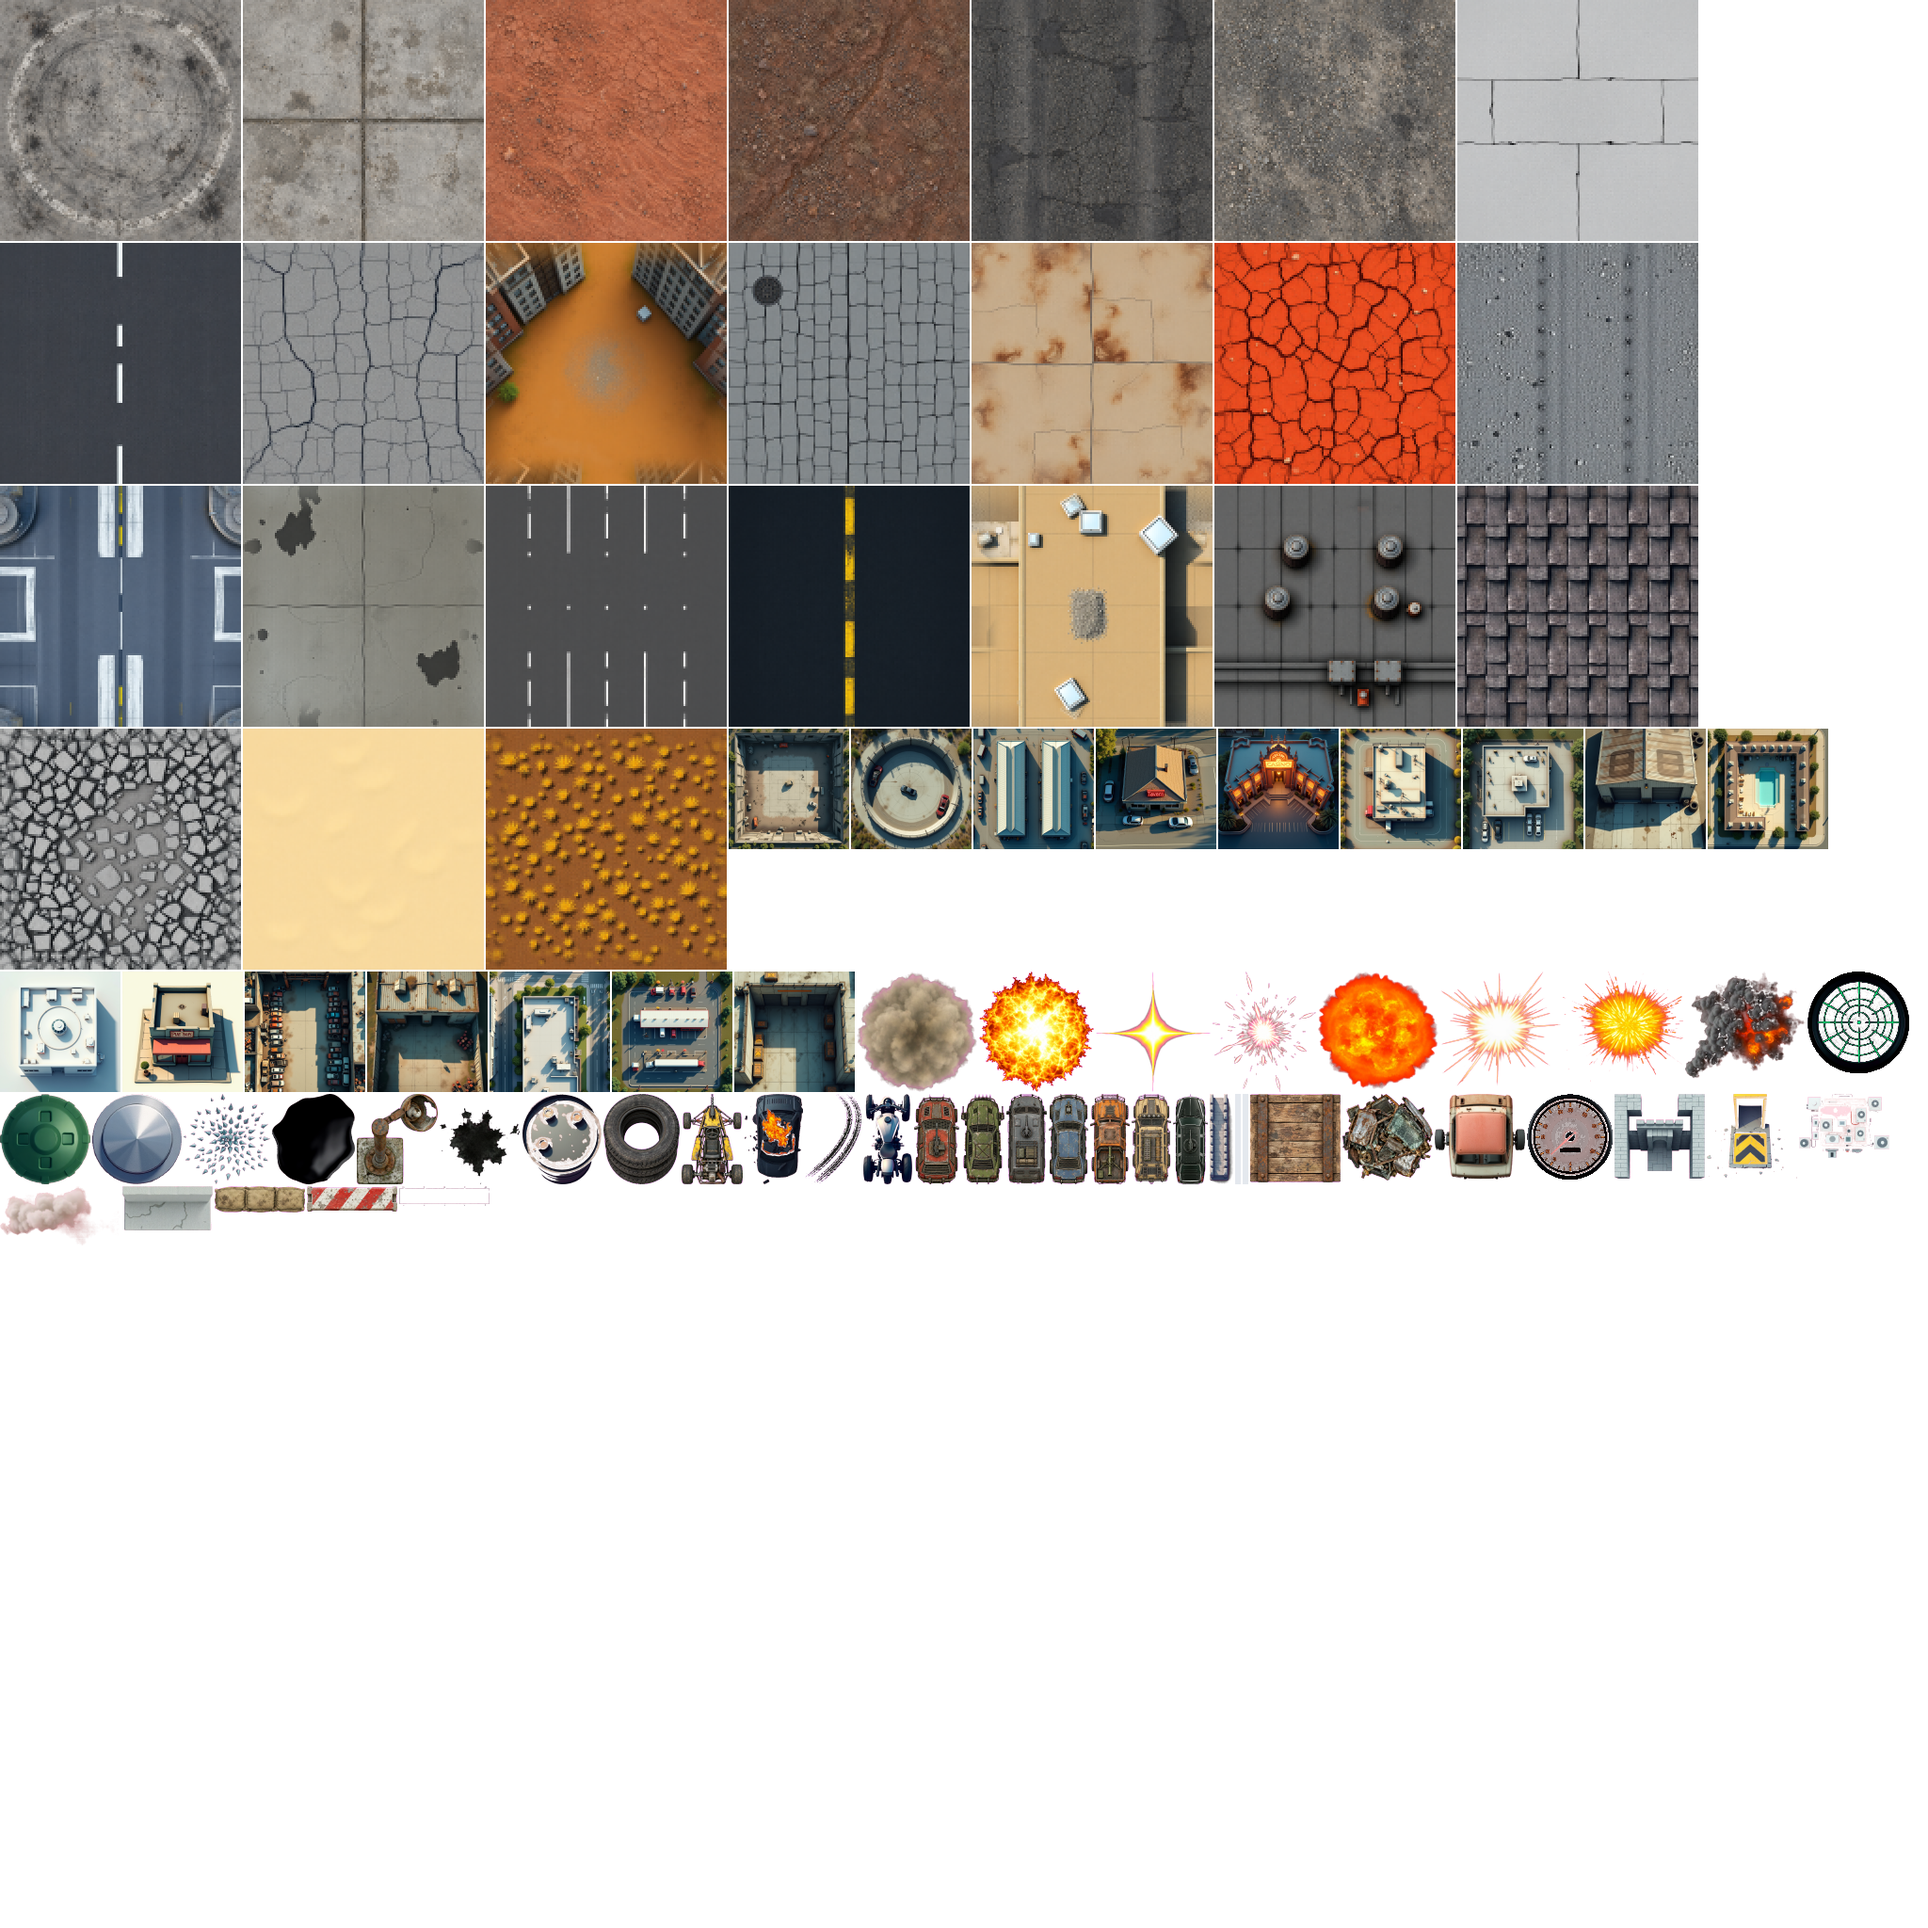
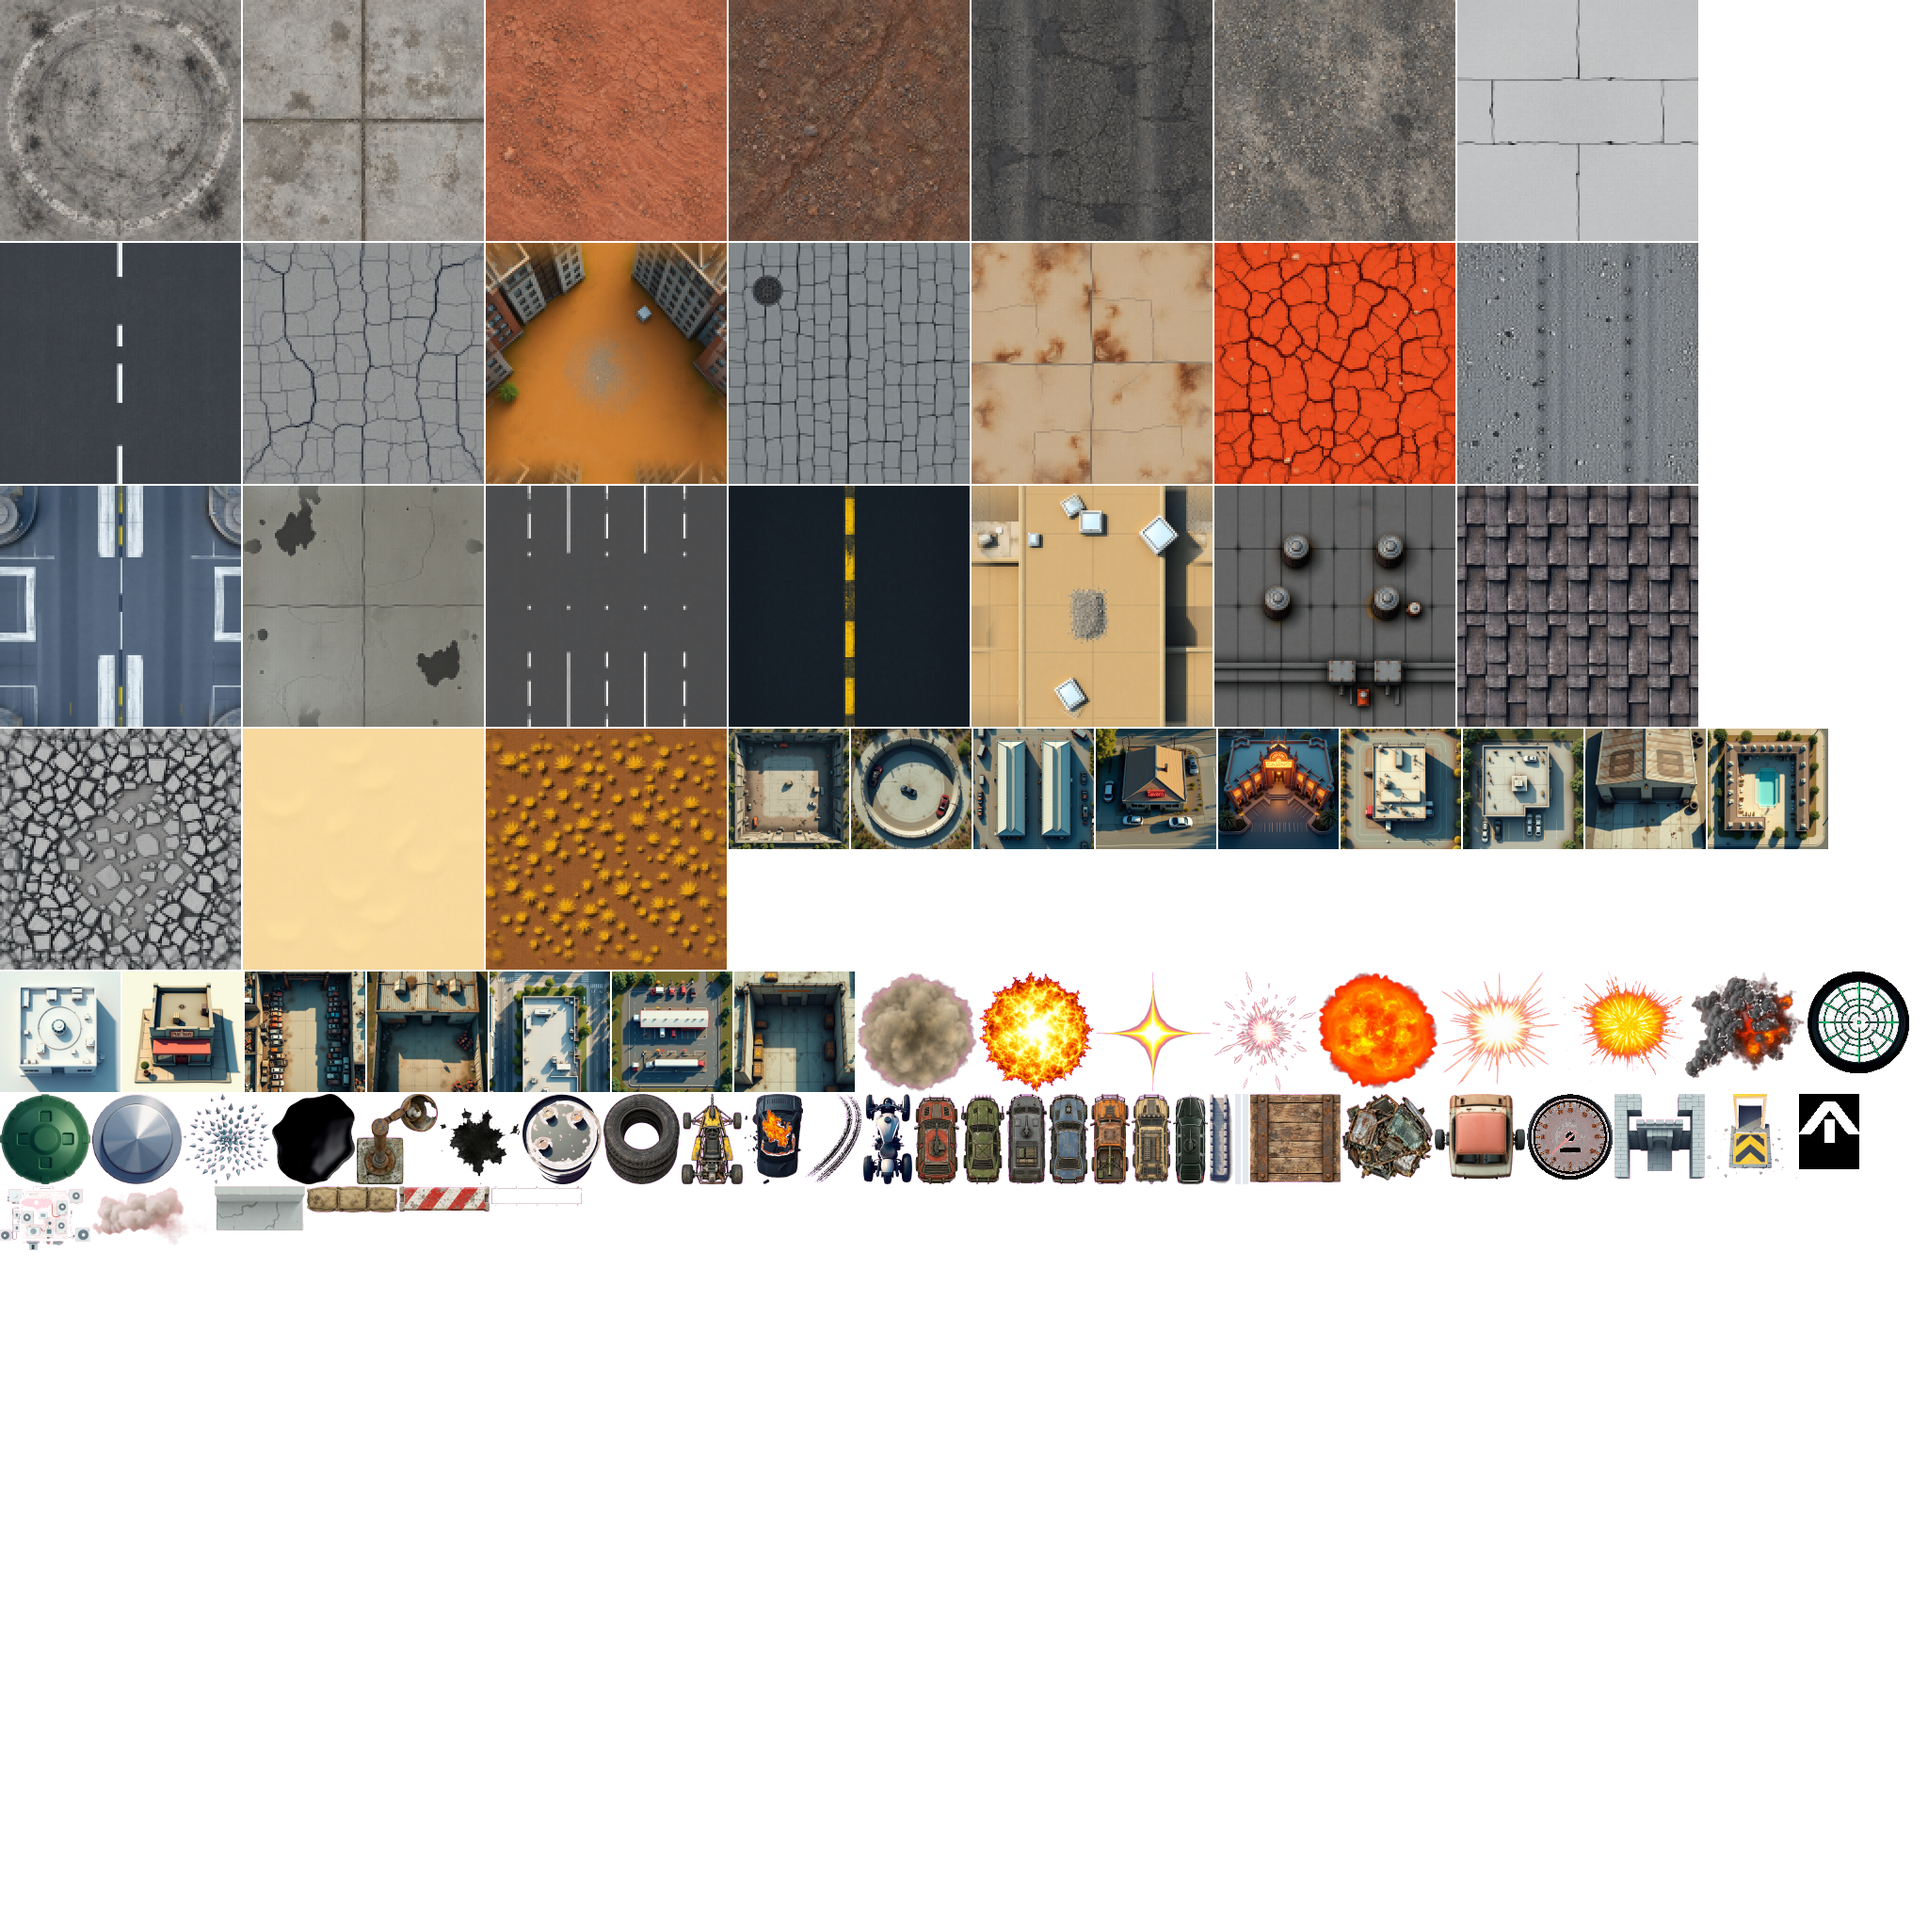
feat(city): a beacon over the gate, so the exit is findable 📍
Iteration 8, executing the waypoint carried from iteration 7. No new reviewer
this round; the carried finding was the work.

THE CITY HAD NO EXIT MARKER
- A review found the city has "no visual markers ... to indicate route to
  Albany; only a vague circle", and that "navigation is unclear". Accurate: the
  gate is drawn, but at the same size, on the same layer, in the same ring as
  the fifteen facilities, so nothing distinguishes "this is the way out" from
  "this is a bar you can visit". The city screen's whole job is choosing a
  building and the exit is the one you MUST find.
- A teal chevron now floats above the gate, on its own emission position so it
  paints over the infill within the buildings layer.

TWO BUGS, BOTH INVISIBLE UNTIL THE FRAME WAS INSPECTED
- It was first given its own layer ("LAYER_WAYPOINT = 3", so it could never be
  painted over). The city renderer packs exactly THREE layer buckets into three
  instance buffers, so a layer-3 instance was packed into nothing and never
  drawn — no error, because the layer number is just an integer and there is no
  buffer to overrun. It now rides on LAYER_BUILDING, where emission order gives
  the same "paints last" guarantee without inventing a bucket that does not
  exist.
- Then it rendered as a solid teal BLOCK. The PNG writer set RGB=255,255,255 on
  every pixel INCLUDING the fully transparent ones, so the atlas keyer — which
  samples the CORNER as the background colour and reads RGB regardless of
[…]

Changed region(s): [[0.0, 0.5938, 0.25, 0.6562], [0.9062, 0.5625, 0.9688, 0.625]]

diff --git a/src/ui/city-view.ts b/src/ui/city-view.ts
@@ -631,6 +631,63 @@ function buildingInstances(layout: CityLayout, doorway: Doorway, atlasIndex: Atl
   ];
 }
 
+/**
+ * The city exit beacon, floating above the gate.
+ *
+ * ## Why this exists
+ *
+ * A vision review found the city has "no visual markers ... to indicate route to
+ * Albany; only a vague circle", and that "navigation is unclear, making it
+ * difficult for players to understand their objective". That is accurate: the
+ * gate is drawn, but it is drawn at exactly the same size, on the same layer,
+ * in the same ring as the fifteen facilities, so nothing distinguishes "this
+ * one is the way out" from "this one is a bar you can visit".
+ *
+ * The city screen's whole job is choosing a building, and the exit is the one
+ * building a player MUST find, so it is the one that gets a marker.
+ *
+ * Drawn on its OWN layer above the buildings (not on LAYER_BUILDING) so it is
+ * never painted over by an infill block, and so the painter's-algorithm order
+ * is explicit rather than dependent on emission order.
+ *
+ * The frame itself is neutral white: the atlas chroma keyer removes a
+ * warm-tinted transparent decal entirely, so the accent colour is a tint here
+ * rather than baked into the art.
+ */
+const WAYPOINT_FRAME = 'decal-waypoint';
+const WAYPOINT_TINT = { r: 0.35, g: 0.88, b: 0.82, a: 0.95 } as const;
+/** Metres the beacon floats above the gate's footprint. */
+const WAYPOINT_LIFT_M = 2.6;
+/**
+ * The beacon rides on LAYER_BUILDING, not on a layer of its own.
+ *
+ * It was first given `LAYER_WAYPOINT = 3` "so it is never painted over by an
+ * infill block" — and was therefore silently invisible. The city renderer packs
+ * exactly three layer buckets into three separate instance buffers (ground,
+ * buildings, actors) and draws those three bind groups; a layer 3 instance is
+ * packed into nothing and never drawn, with no error, because the layer number
+ * is just an integer and there is no buffer to overrun.
+ *
+ * Within a bucket the painter's algorithm preserves emission order, and the
+ * beacon is emitted after every facility and filler, so it does still paint
+ * over them. That is the ordering guarantee actually wanted, obtained without
+ * inventing a bucket the renderer does not have.
+ */
+const LAYER_WAYPOINT = LAYER_BUILDING;
+
+function waypointInstance(gate: Gate, atlasIndex: AtlasIndex): SpriteInstanceInput {
+  const frame = atlasIndex.frame(WAYPOINT_FRAME);
+  return {
+    atlasId: String(frame.atlasIndex),
+    position: { x: gate.position.x, y: gate.position.y + WAYPOINT_LIFT_M },
+    rotationRad: 0,
+    sizeM: { x: 3.0, y: 3.8 },
+    uvRect: frame.uv,
+    tint: WAYPOINT_TINT,
+    layer: LAYER_WAYPOINT,
+  };
+}
+
 function gateInstances(layout: CityLayout, gate: Gate, atlasIndex: AtlasIndex): SpriteInstanceInput[] {
   const frame = atlasIndex.frame(GATE_FRAME);
   const sizeM: Vec2 = { x: layout.tileSizeM, y: layout.tileSizeM };
@@ -747,6 +804,7 @@ export function cityStaticLayers(
   staticInstances.push(...fillerInstances(layout, atlasIndex));
   for (const doorway of layout.doorways) staticInstances.push(...buildingInstances(layout, doorway, atlasIndex));
   staticInstances.push(...gateInstances(layout, layout.gate, atlasIndex));
+  staticInstances.push(waypointInstance(layout.gate, atlasIndex));
   staticInstances.push(...doormarkerInstances(layout, atlasIndex));
 
   const layers = {
@@ -792,8 +850,23 @@ export function buildCityInstances(snapshot: CityViewSnapshot, atlasIndex: Atlas
 export function cityLayer1InstanceCount(layout: CityLayout): number {
   // furniture: 1 instance each. fillers: 2 each (shadow + building).
   // doorways: 2 each (shadow + building) + 1 doormarker. gate: 2 (shadow + building).
-  // The `+ 2` is the gate pair.
-  return furniturePlacements(layout).length + fillerPlacements(layout).length * 2 + layout.doorways.length * 3 + 2;
+  // The `+ 2` is the gate pair; the `+ 1` is the exit beacon, which rides on
+  // this layer.
+  //
+  // This exact-count function is load-bearing in the way the correctness pass
+  // made load-bearing: the city actor buffer was sized to the live count with
+  // zero headroom, and adding the beacon without counting it here produced
+  // "95 instances exceeds capacity 94" — the bounds check added to
+  // `writeInstanceBuffer` doing exactly the job it was written for. Without
+  // that check this would have been a silently dropped write and an invisible
+  // beacon, which is how the beacon was invisible on its FIRST attempt.
+  return (
+    furniturePlacements(layout).length +
+    fillerPlacements(layout).length * 2 +
+    layout.doorways.length * 3 +
+    2 + // gate shadow + gate
+    1 // exit beacon
+  );
 }
 
 // ---------------------------------------------------------------------------

diff --git a/tests/unit/city.test.ts b/tests/unit/city.test.ts
@@ -67,21 +67,27 @@ function fixtureAtlasIndex() {
     kind,
     rotationOffsetDeg: 0,
   });
-  const kindOf = (name: string): string =>
-    name.startsWith('building-')
-      ? 'building'
-      : name.startsWith('prop-')
-        ? 'prop'
-        : name.startsWith('car-')
-          ? 'car'
-          : name.startsWith('cycle-')
-            ? 'cycle'
-            : 'tile';
+  /**
+   * The atlas `kind` for a frame name, derived from its prefix.
+   *
+   * The scan above now matches ANY `<prefix>-<name>` literal, so this has to
+   * know every kind `src/render/atlas.ts`'s ASSET_KINDS declares — otherwise a
+   * `decal-` frame silently lands in the 'tile' bucket and the fixture stops
+   * representing the real manifest.
+   */
+  const kindOf = (name: string): string => {
+    const prefix = name.slice(0, name.indexOf('-'));
+    return (['tile', 'building', 'prop', 'car', 'wreck', 'cycle', 'fx', 'decal', 'ui'] as const).includes(
+      prefix as never,
+    )
+      ? prefix
+      : 'tile';
+  };
   const sources = ['../../src/ui/city-view.ts', '../../src/render/ground.ts']
     .map((rel) => readFileSync(new URL(rel, import.meta.url), 'utf8'))
     .join('\n');
   const frames: Record<string, ReturnType<typeof frame>> = {};
-  for (const match of sources.matchAll(/'(building-[a-z-]+|prop-[a-z-]+|tile-[a-z-]+|cycle-[a-z-]+|car-[a-z-]+)'/g)) {
+  for (const match of sources.matchAll(/'([a-z]+-[a-z0-9-]+)'/g)) {
     const name = match[1]!;
     frames[name] = frame(kindOf(name));
   }
@@ -116,7 +122,7 @@ it('every frame the city view asks for exists in the real manifest', () => {
   const sources = ['../../src/ui/city-view.ts', '../../src/render/ground.ts']
     .map((rel) => readFileSync(new URL(rel, import.meta.url), 'utf8'))
     .join('\n');
-  const asked = [...new Set([...sources.matchAll(/'(building-[a-z-]+|prop-[a-z-]+|tile-[a-z-]+|cycle-[a-z-]+|car-[a-z-]+)'/g)].map((m) => m[1]!))];
+  const asked = [...new Set([...sources.matchAll(/'([a-z]+-[a-z0-9-]+)'/g)].map((m) => m[1]!))];
   expect(asked.filter((name) => !(name in real.frames))).toEqual([]);
 });
 

diff --git a/.opencode/ralph-loop.local.md b/.opencode/ralph-loop.local.md
@@ -1,6 +1,6 @@
 ---
 active: true
-iteration: 6
+iteration: 7
 maxIterations: 100
 sessionId: ses_f14a7ff23ffeCvOeqyAPPjegV6
 ---
@@ -9,7 +9,7 @@ lets do a infiniate improving loop each time ask a random state of the art visio
 
 ## Log
 
-Reviewers asked (6 of 82 vision models):
+Reviewers asked (7 of 82 vision models):
 1. google/gemini-3.8-flash      -> title wordmark, constructor (3 bugs incl. one I missed), city motorway-through-wall
 2. openai/gpt-5.4-mini         -> radar instrument, condition dashboard, player/opponent contrast, title hierarchy
 3. qwen/qwen3.5-122b-a10b      -> road lane markings (carried x2), preview/menu contrast, radar rings (claim WRONG - checked)
@@ -25,9 +25,14 @@ Fixed at source by raising review captures 900px -> 1280px.
 A first radar fix (mask-image rim ticks) corrupted CSS and stripped chrome off
 every HUD panel - caught in a screenshot, reverted, redone as weight-only.
 
+7. bytedance-seed/seed-1.6-flash -> constructor onboarding copy too quiet (FIXED, 3 steps);
+                                  banner "cut off" (WRONG - reads in full)
+                                  CARRIED: city has no waypoint to the exit
+
 DEFERRED (real, documented, not bugs):
 - Ground blockiness: NEAREST sampler is REQUIRED (no atlas gutters, linear would
   bleed). Real fix = dedicated linear+repeat ground texture (load-time change).
+- CITY WAYPOINT: no indication of which building is the exit (top item, iteration 8)
 - City daylight grade (my 0.6 ground tint is why it reads dim), street network,
   title-menu composition, 10 empty weapon rows.
 
